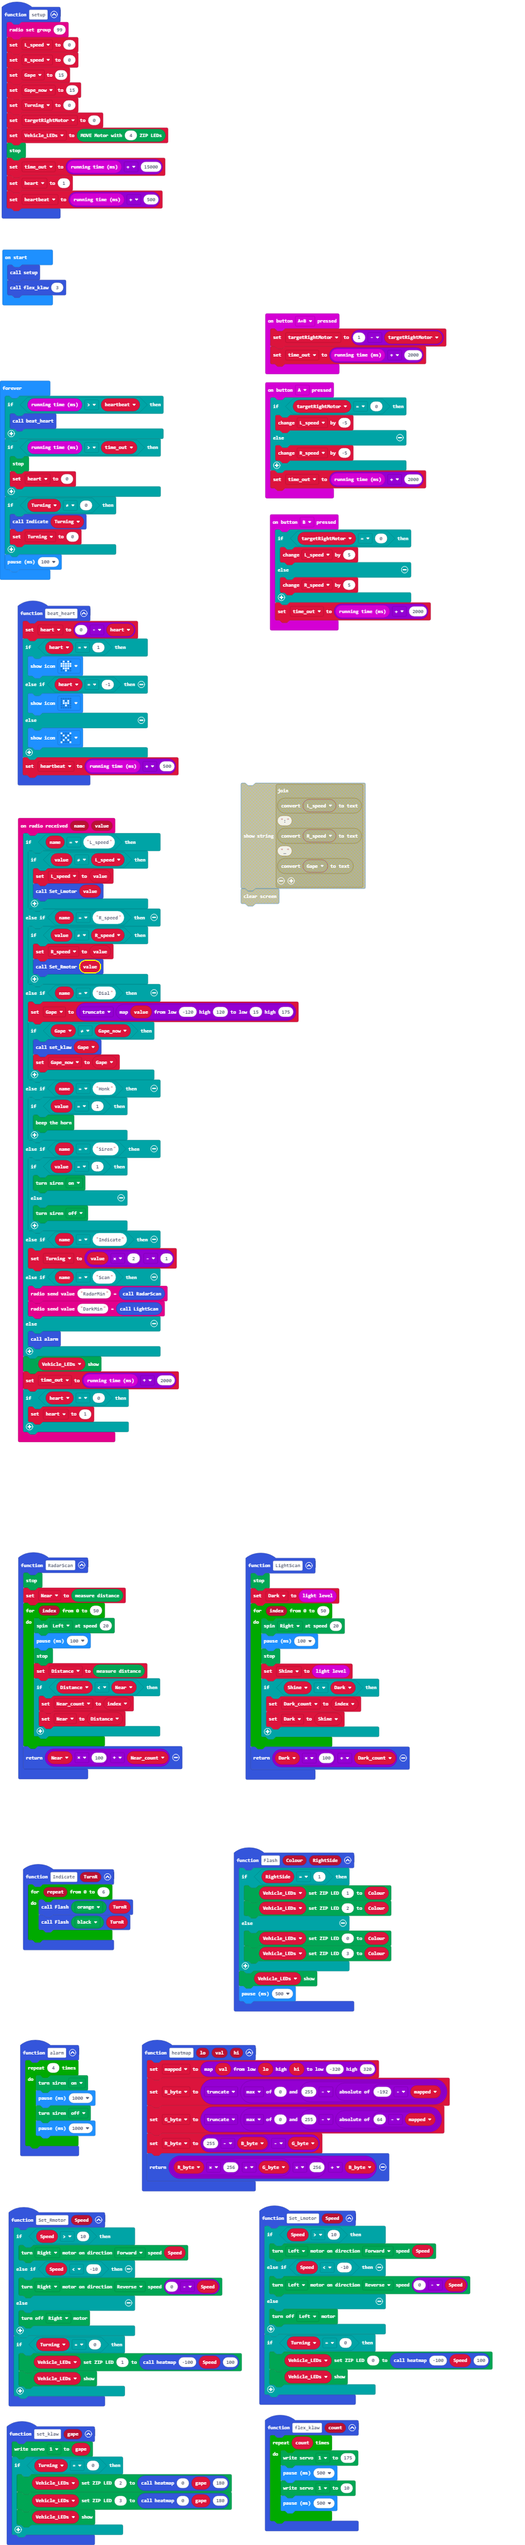
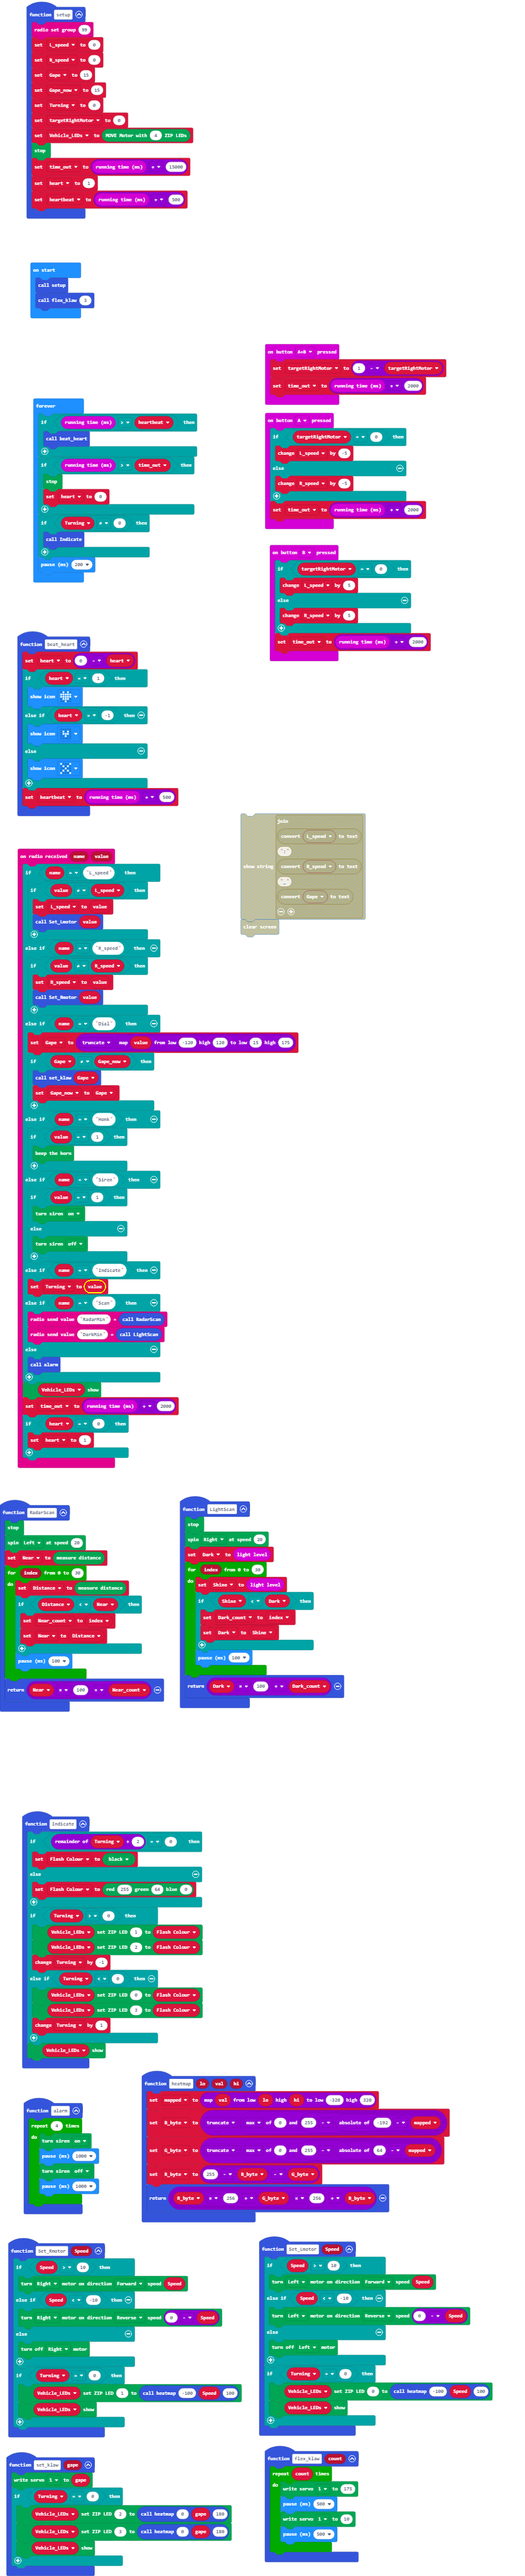
reworked indicators; stopped scans stuttering

Changed region(s): [[0.0, 0.0, 0.933, 0.9963]]

diff --git a/main.ts b/main.ts
@@ -1,8 +1,19 @@
-function Indicate (TurnR: number) {
-    for (let repeat = 0; repeat <= 6; repeat++) {
-        Flash(Kitronik_Move_Motor.colors(Kitronik_Move_Motor.ZipLedColors.Orange), TurnR)
-        Flash(Kitronik_Move_Motor.colors(Kitronik_Move_Motor.ZipLedColors.Black), TurnR)
+function Indicate () {
+    if (Turning % 2 == 0) {
+        Flash_Colour = Kitronik_Move_Motor.colors(Kitronik_Move_Motor.ZipLedColors.Black)
+    } else {
+        Flash_Colour = Kitronik_Move_Motor.rgb(255, 64, 0)
     }
+    if (Turning > 0) {
+        Vehicle_LEDs.setZipLedColor(1, Flash_Colour)
+        Vehicle_LEDs.setZipLedColor(2, Flash_Colour)
+        Turning += -1
+    } else if (Turning < 0) {
+        Vehicle_LEDs.setZipLedColor(0, Flash_Colour)
+        Vehicle_LEDs.setZipLedColor(3, Flash_Colour)
+        Turning += 1
+    }
+    Vehicle_LEDs.show()
 }
 function set_klaw (gape: number) {
     Kitronik_Move_Motor.writeServoPin(Kitronik_Move_Motor.ServoSelection.servo1, gape)
@@ -56,16 +67,15 @@ function alarm () {
 }
 function LightScan () {
     Kitronik_Move_Motor.stop()
+    Kitronik_Move_Motor.spin(Kitronik_Move_Motor.SpinDirections.Right, 20)
     Dark = input.lightLevel()
-    for (let index = 0; index <= 50; index++) {
-        Kitronik_Move_Motor.spin(Kitronik_Move_Motor.SpinDirections.Right, 20)
-        basic.pause(100)
-        Kitronik_Move_Motor.stop()
+    for (let index = 0; index <= 30; index++) {
         Shine = input.lightLevel()
         if (Shine < Dark) {
             Dark_count = index
             Dark = Shine
         }
+        basic.pause(100)
     }
     return Dark * 100 + Dark_count
 }
@@ -130,7 +140,7 @@ radio.onReceivedValue(function (name, value) {
             Kitronik_Move_Motor.soundSiren(Kitronik_Move_Motor.OnOffSelection.Off)
         }
     } else if (name == "Indicate") {
-        Turning = value * 2 - 1
+        Turning = value
     } else if (name == "Scan") {
         radio.sendValue("RadarMin", RadarScan())
         radio.sendValue("DarkMin", LightScan())
@@ -145,16 +155,15 @@ radio.onReceivedValue(function (name, value) {
 })
 function RadarScan () {
     Kitronik_Move_Motor.stop()
+    Kitronik_Move_Motor.spin(Kitronik_Move_Motor.SpinDirections.Left, 20)
     Near = Kitronik_Move_Motor.measure()
-    for (let index = 0; index <= 50; index++) {
-        Kitronik_Move_Motor.spin(Kitronik_Move_Motor.SpinDirections.Left, 20)
-        basic.pause(100)
-        Kitronik_Move_Motor.stop()
+    for (let index = 0; index <= 30; index++) {
         Distance = Kitronik_Move_Motor.measure()
         if (Distance < Near) {
             Near_count = index
             Near = Distance
         }
+        basic.pause(100)
     }
     return Near * 100 + Near_count
 }
@@ -165,17 +174,6 @@ function flex_klaw (count: number) {
         Kitronik_Move_Motor.writeServoPin(Kitronik_Move_Motor.ServoSelection.servo1, 10)
         basic.pause(500)
     }
-}
-function Flash (Colour: number, RightSide: number) {
-    if (RightSide == 1) {
-        Vehicle_LEDs.setZipLedColor(1, Colour)
-        Vehicle_LEDs.setZipLedColor(2, Colour)
-    } else {
-        Vehicle_LEDs.setZipLedColor(0, Colour)
-        Vehicle_LEDs.setZipLedColor(3, Colour)
-    }
-    Vehicle_LEDs.show()
-    basic.pause(500)
 }
 function beat_heart () {
     heart = 0 - heart
@@ -207,6 +205,7 @@ let R_speed = 0
 let L_speed = 0
 let targetRightMotor = 0
 let Vehicle_LEDs: Kitronik_Move_Motor.MoveMotorZIP = null
+let Flash_Colour = 0
 let Turning = 0
 setup()
 flex_klaw(3)
@@ -219,8 +218,7 @@ basic.forever(function () {
         heart = 0
     }
     if (Turning != 0) {
-        Indicate(Turning)
-        Turning = 0
+        Indicate()
     }
-    basic.pause(100)
+    basic.pause(200)
 })
